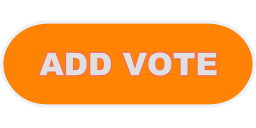
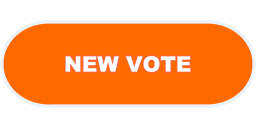
add set of Buttons

diff --git a/frontend/src/lib/editor/editor.component.html b/frontend/src/lib/editor/editor.component.html
@@ -29,7 +29,7 @@
 </div>
 
 <div class="newVoteButton">
-  <input type="image" src="../../assets/newVote_btn.png" width="125%" height="125%" (click)="addEmptyQuestion()"/>
+  <input type="image" src="../../assets/addQuestion_btn.png" width="125%" height="125%" (click)="addEmptyQuestion()"/>
 </div>
 
 </body>
